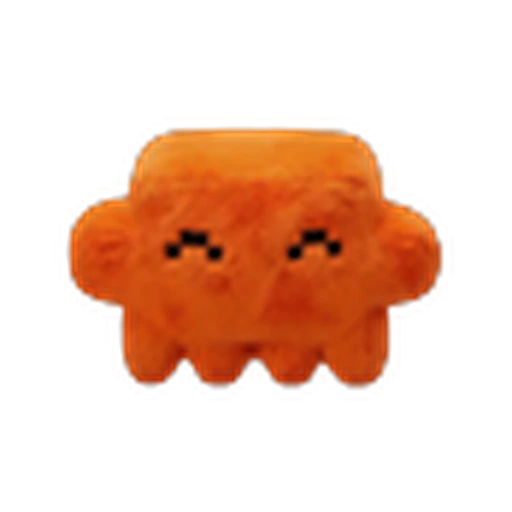
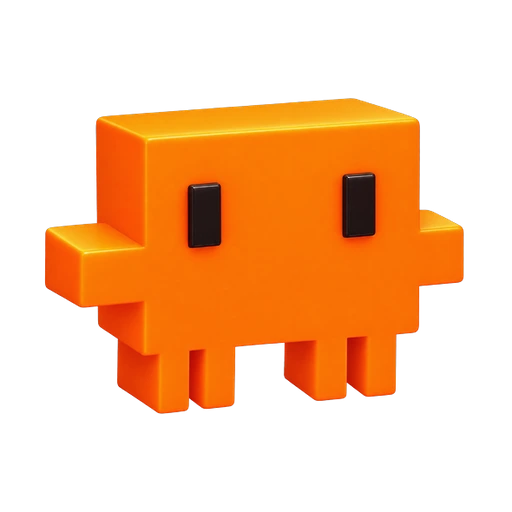
Claude et Pepe refaits ; la fiche d'un skin s'ouvre en grand au clic
== LES DEUX IMAGES ==

Meme traitement qu'Andy : deja en RGBA transparent, recadrees sur le sujet,
reposees a 512x512.

== LA FICHE EN GRAND ==

Une carte de 84 px dit qui c'est ; elle ne montrait pas vraiment le
personnage qu'on s'apprete a payer jusqu'a 300 000 $SWOGE. Toute la carte
s'ouvre maintenant sur une feuille qui monte du bas — image large, nom,
puissance en points, description, et l'action tout en bas — avec un bouton
fermer en haut a droite.

Meme coque que la feuille de vente (.swv, .swv-f, .swv-x) : deux feuilles qui
se comportent pareil n'ont besoin que d'un seul jeu de regles CSS, pas de
deux copies qui pourraient diverger.

`boutonSkin()` est desormais PARTAGE entre la carte et la fiche : les deux
doivent dire la meme chose au meme instant (prix, "Wear", "Wearing"), et un
bouton copie-colle deux fois aurait fini par diverger a la premiere
modification de l'un des deux. Un achat depuis la fiche met a jour la carte
en dessous dans le meme geste, sans fermer la fiche.

Le bouton de la carte coupe l'evenement (stopPropagation) pour ne pas rouvrir
la fiche par-dessus lui-meme — verifie : cliquer "Buy" sur une carte achete
sans jamais ouvrir la fiche.

Claude-Session: https://claude.ai/code/session_01QjqQS5Zhr9NpzpjaVE6t7u

diff --git a/stakebubble.js b/stakebubble.js
@@ -470,6 +470,10 @@
         ((m.catalogue || []).filter(function (s) { return s.id === m.achete; })[0] || {}).nom, 'good');
       if (m.balance != null) rafraichitSolde();
       if (profOnglet === 'sk') profRend();
+      /* La fiche en grand se repeint independamment de l'onglet du dessous —
+         un achat ou un choix de port doit y changer le bouton tout de suite,
+         et `peintDetailSkin` ne fait rien si aucune fiche n'est ouverte. */
+      peintDetailSkin();
     }
     /* ---- LE RACHAT ----
      *
@@ -1940,9 +1944,10 @@
       '.swk-g{display:grid;grid-template-columns:repeat(2,1fr);gap:10px;margin-top:4px;}' +
       '@media (min-width:360px){.swk-g{grid-template-columns:repeat(2,1fr);}}' +
       '.swk-c{display:flex;flex-direction:column;align-items:center;text-align:center;' +
-        'padding:14px 10px 12px;border-radius:14px;gap:6px;' +
+        'padding:14px 10px 12px;border-radius:14px;gap:6px;cursor:pointer;' +
         'border:1px solid rgba(255,255,255,.10);background:rgba(255,255,255,.03);' +
         'border-top:3px solid var(--t);}' +
+      '.swk-c:hover{background:rgba(255,255,255,.06);}' +
       '.swk-c.actif{background:rgba(124,255,155,.06);border-color:rgba(124,255,155,.35);' +
         'border-top-color:#7CFF9B;}' +
       '.swk-c .ico{width:84px;height:84px;display:flex;align-items:center;justify-content:center;}' +
@@ -1956,20 +1961,38 @@
       '.swk-c .pw i.on{background:var(--t);}' +
       '.swk-c .pv{font-style:normal;font-size:10.5px;color:#8DA0C4;line-height:1.4;' +
         'min-height:2.7em;}' +
-      '.swk-c .bas{margin-top:4px;}' +
-      '.swk-c .tag{font-size:11px;font-weight:800;color:#7CFF9B;' +
+      '.swk-c .bas,.swk-da{margin-top:4px;}' +
+      '.swk-c .tag,.swk-da .tag{font-size:11px;font-weight:800;color:#7CFF9B;' +
         'border:1px solid rgba(124,255,155,.4);border-radius:99px;padding:4px 12px;}' +
-      '.swk-c .act{padding:8px 14px;border-radius:10px;font:inherit;font-size:12px;' +
+      '.swk-c .act,.swk-da .act{padding:8px 14px;border-radius:10px;font:inherit;font-size:12px;' +
         'font-weight:800;cursor:pointer;border:1px solid rgba(255,255,255,.18);' +
         'background:rgba(255,255,255,.06);color:#EAF2FF;}' +
-      '.swk-c .act:hover:not(:disabled){background:rgba(255,255,255,.12);}' +
-      '.swk-c .act:disabled{opacity:.45;cursor:default;}' +
+      '.swk-c .act:hover:not(:disabled),.swk-da .act:hover:not(:disabled){background:rgba(255,255,255,.12);}' +
+      '.swk-c .act:disabled,.swk-da .act:disabled{opacity:.45;cursor:default;}' +
       /* Le prix est le SEUL bouton dore du tiroir en dehors des gestes
          d argent : il doit se voir comme « ceci coute », pas comme un bouton
          d action neutre parmi d autres. */
-      '.swk-c .act.buy{border-color:rgba(255,197,61,.55);background:rgba(255,197,61,.14);' +
+      '.swk-c .act.buy,.swk-da .act.buy{border-color:rgba(255,197,61,.55);background:rgba(255,197,61,.14);' +
         'color:#FFD97A;}' +
-      '.swk-c .act.buy i{font-style:normal;font-weight:600;opacity:.85;}' +
+      '.swk-c .act.buy i,.swk-da .act.buy i{font-style:normal;font-weight:600;opacity:.85;}' +
+      /* ---- LA FICHE EN GRAND ----
+       *
+       * Meme coque que la feuille de vente (.swv, .swv-f, .swv-x) : une seule
+       * regle de comportement pour toutes les feuilles du tiroir. Ce qui
+       * change ici, c'est le contenu — une image large plutot qu'une ligne
+       * de formulaire. */
+      '.swk-v .swv-f{align-items:center;text-align:center;gap:9px;padding-top:28px;}' +
+      '.swk-hero{width:min(58vw,240px);height:min(58vw,240px);display:flex;' +
+        'align-items:center;justify-content:center;}' +
+      '.swk-hero img{max-width:100%;max-height:100%;object-fit:contain;' +
+        'filter:drop-shadow(0 10px 18px rgba(0,0,0,.45));}' +
+      '.swk-dn{font-size:19px;font-weight:800;color:#F2F6FF;}' +
+      '.swk-dp{display:flex;gap:5px;font-style:normal;justify-content:center;}' +
+      '.swk-dp i{width:8px;height:8px;border-radius:99px;background:rgba(255,255,255,.16);}' +
+      '.swk-dp i.on{background:var(--t);}' +
+      '.swk-dv{font-style:normal;font-size:13px;color:#8DA0C4;line-height:1.5;' +
+        'max-width:280px;margin:2px 0 4px;}' +
+      '.swk-da .act{padding:12px 26px;font-size:14px;}' +
       /* La case vendable : rien de crie, juste de quoi comprendre qu on peut
          appuyer dessus. Un bouton sur chaque case ferait une grille de
          boutons au lieu d une collection. */
@@ -3705,6 +3728,38 @@
   }
 
   /* ================= LES SKINS ================= */
+  /* Le bouton d'action d'un skin — achat, port, ou deja porte. Partage entre
+     la carte et la fiche en grand : les deux DOIVENT dire la meme chose au
+     meme instant, et un bouton copie-colle deux fois finit par diverger a la
+     premiere modification de l'un des deux. */
+  function boutonSkin(s, actif) {
+    if (actif) {
+      var tag = document.createElement('span');
+      tag.className = 'tag'; tag.textContent = 'Wearing';
+      return tag;
+    }
+    if (s.possede) {
+      var w = document.createElement('button');
+      w.type = 'button'; w.className = 'act';
+      w.textContent = 'Wear';
+      w.addEventListener('click', function (e) {
+        e.stopPropagation();
+        w.disabled = true;
+        envoie({ type: 'skinChoisi', id: s.id });
+      });
+      return w;
+    }
+    var b = document.createElement('button');
+    b.type = 'button'; b.className = 'act buy';
+    b.innerHTML = nb(s.prix, 0) + ' <i>$SWOGE</i>';
+    b.addEventListener('click', function (e) {
+      e.stopPropagation();
+      b.disabled = true;
+      envoie({ type: 'skinBuy', id: s.id });
+    });
+    return b;
+  }
+
   function rendSkins() {
     var l = profBoite.querySelector('.swp-l');
     l.innerHTML = '';
@@ -3719,7 +3774,8 @@
     var intro = document.createElement('div');
     intro.className = 'swb-mention';
     intro.textContent = 'A skin changes how your character looks — nothing to do with seasons or chests. ' +
-      'Buy any of them, any time, for a fixed price. The one you buy becomes the one you wear.';
+      'Buy any of them, any time, for a fixed price. The one you buy becomes the one you wear. ' +
+      'Tap a character to see it up close.';
     l.appendChild(intro);
 
     var g = document.createElement('div');
@@ -3731,6 +3787,11 @@
       var d = document.createElement('div');
       d.className = 'swk-c' + (actif ? ' actif' : '');
       d.style.setProperty('--t', s.couleur || '#8DA0C4');
+      /* Toute la carte s'ouvre en grand — pas seulement l'image — parce que
+         rien sur une carte de 84 px ne dit qu'elle cache un geste distinct du
+         bouton du bas. Le bouton lui-meme coupe l'evenement (stopPropagation
+         dans boutonSkin) pour ne pas rouvrir la fiche par-dessus lui. */
+      d.addEventListener('click', function () { ouvreDetailSkin(s); });
       /* La puissance se lit en points pleins sur cinq, comme une jauge —
          plus rapide a comparer entre cinq cartes qu'un nombre qu'il faut
          relire chaque fois. */
@@ -3743,31 +3804,70 @@
         '<i class="pv">' + ech(s.pouvoir) + '</i>';
       var bas = document.createElement('div');
       bas.className = 'bas';
-      if (actif) {
-        bas.innerHTML = '<span class="tag">Wearing</span>';
-      } else if (s.possede) {
-        var w = document.createElement('button');
-        w.type = 'button'; w.className = 'act';
-        w.textContent = 'Wear';
-        w.addEventListener('click', function () {
-          w.disabled = true;
-          envoie({ type: 'skinChoisi', id: s.id });
-        });
-        bas.appendChild(w);
-      } else {
-        var b = document.createElement('button');
-        b.type = 'button'; b.className = 'act buy';
-        b.innerHTML = nb(s.prix, 0) + ' <i>$SWOGE</i>';
-        b.addEventListener('click', function () {
-          b.disabled = true;
-          envoie({ type: 'skinBuy', id: s.id });
-        });
-        bas.appendChild(b);
-      }
+      bas.appendChild(boutonSkin(s, actif));
       d.appendChild(bas);
       g.appendChild(d);
     });
   }
+
+  /* ==================== LA FICHE D'UN SKIN, EN GRAND ====================
+   *
+   * Une carte de 84 px dit qui c'est ; elle ne montre pas VRAIMENT le
+   * personnage qu'on s'apprete a payer 300 000 $SWOGE. La fiche reprend le
+   * meme gabarit que la feuille de vente — une feuille qui monte du bas, pas
+   * une modale plein ecran qui coupe une manche en cours — avec la MEME
+   * classe `.swv` : deux feuilles qui se comportent pareil n'ont besoin que
+   * d'un seul jeu de regles CSS.
+   */
+  var skinBoite = null;
+  function ouvreDetailSkin(s) {
+    if (!skinBoite) {
+      skinBoite = document.createElement('div');
+      skinBoite.className = 'swv swk-v';
+      skinBoite.innerHTML =
+        '<div class="swv-f">' +
+          '<button class="swv-x" type="button" aria-label="Close">&times;</button>' +
+          '<div class="swk-hero"><img alt=""></div>' +
+          '<b class="swk-dn"></b>' +
+          '<i class="swk-dp"></i>' +
+          '<i class="swk-dv"></i>' +
+          '<div class="swk-da"></div>' +
+        '</div>';
+      var hote = (profBoite && profBoite.querySelector('.swp')) || document.body;
+      if (hote === document.body) skinBoite.style.position = 'fixed';
+      hote.appendChild(skinBoite);
+      skinBoite.addEventListener('click', function (e) {
+        if (e.target === skinBoite || e.target.classList.contains('swv-x')) fermeDetailSkin();
+      });
+    }
+    /* La reponse a un achat rafraichit SKINS ; on relit dedans plutot que de
+       garder `s` d'un appel a l'autre, sinon la fiche ouverte continuerait
+       d'afficher « Buy » un instant apres que l'achat ait reussi. */
+    skinBoite.dataset.id = s.id;
+    peintDetailSkin();
+    skinBoite.classList.add('on');
+  }
+  function peintDetailSkin() {
+    if (!skinBoite || !skinBoite.dataset.id) return;
+    var id = skinBoite.dataset.id;
+    var s = ((SKINS && SKINS.catalogue) || []).filter(function (x) { return x.id === id; })[0];
+    if (!s) return;
+    var actif = SKINS.actif === s.id;
+    skinBoite.style.setProperty('--t', s.couleur || '#8DA0C4');
+    var im = skinBoite.querySelector('.swk-hero img');
+    im.src = 'img/skins/skin_' + encodeURIComponent(s.id) + '.webp';
+    im.onerror = function () { im.style.visibility = 'hidden'; };
+    im.style.visibility = '';
+    skinBoite.querySelector('.swk-dn').textContent = s.nom;
+    var points = '';
+    for (var i = 1; i <= 5; i++) points += '<i class="' + (i <= s.puissance ? 'on' : '') + '"></i>';
+    skinBoite.querySelector('.swk-dp').innerHTML = points;
+    skinBoite.querySelector('.swk-dv').textContent = s.pouvoir;
+    var za = skinBoite.querySelector('.swk-da');
+    za.innerHTML = '';
+    za.appendChild(boutonSkin(s, actif));
+  }
+  function fermeDetailSkin() { if (skinBoite) skinBoite.classList.remove('on'); }
 
   function peintAnnonces(boite) {
     if (!boite) return;
